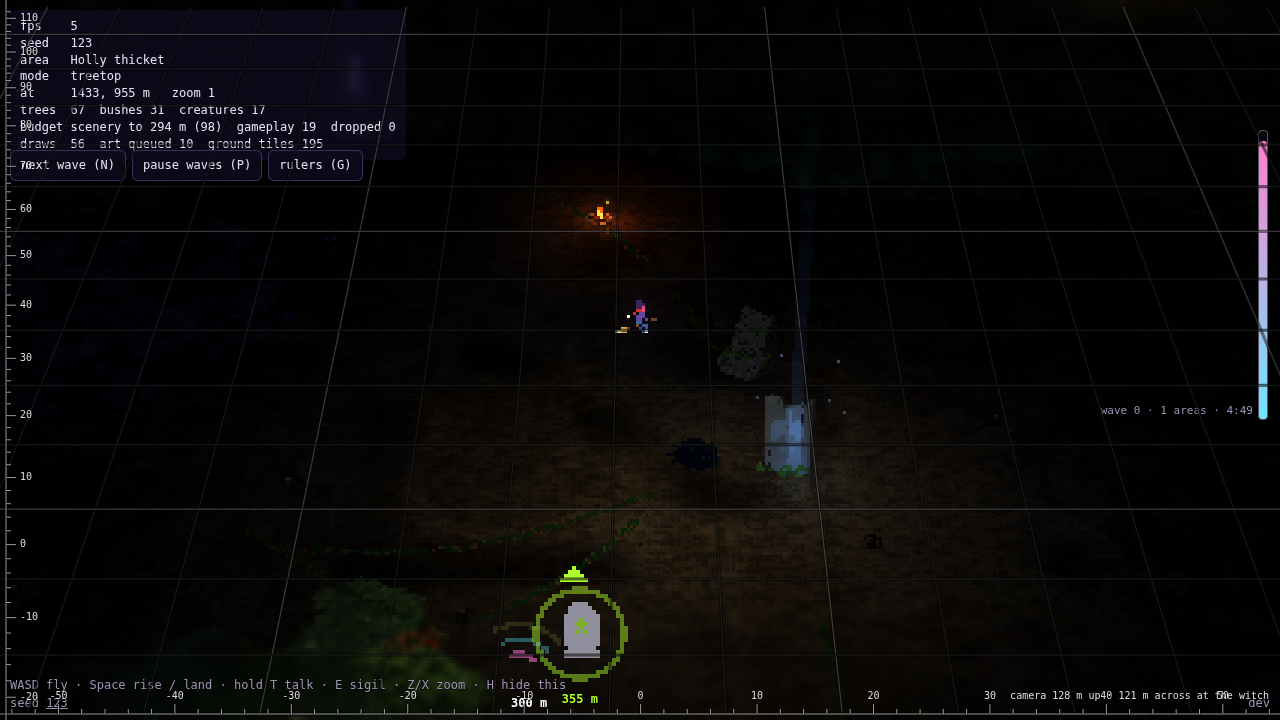
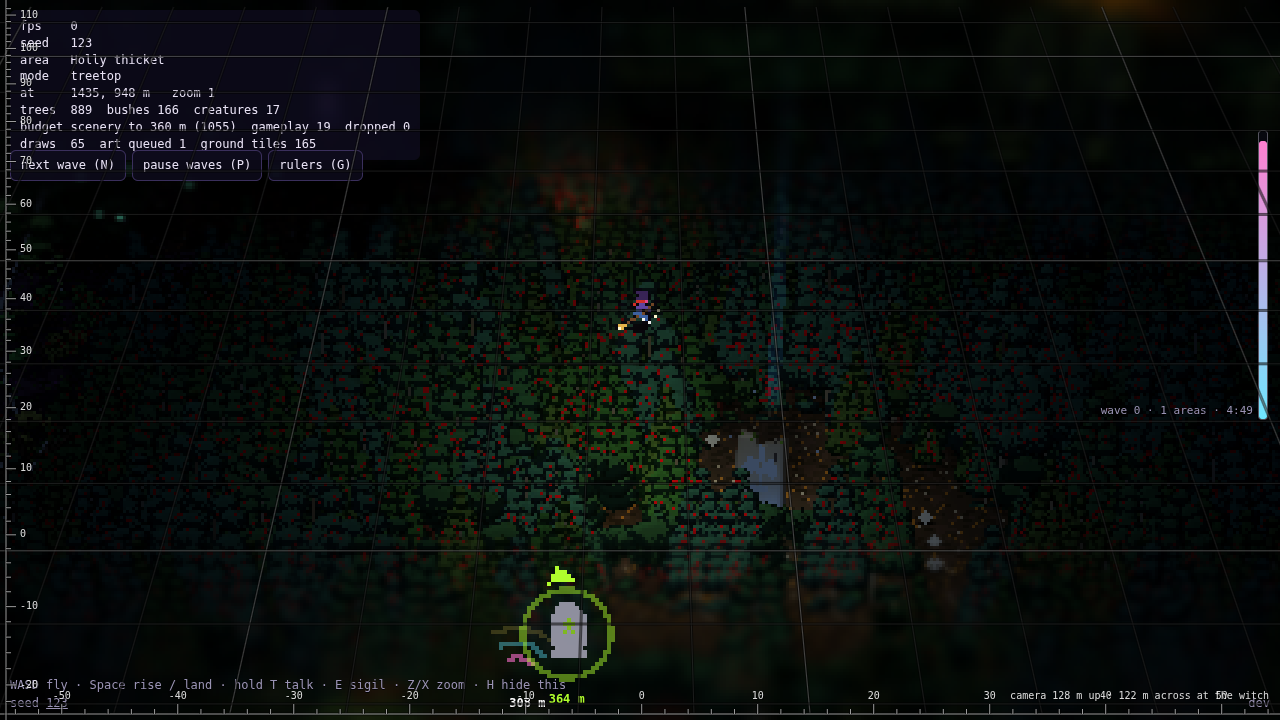
Tilt-shift per mode and the opening shot (Ed, v160 and v171)
- tiltShift.treetop {strength 6, band 0.28}, blended in by lift (smoothstep) in the post pass; the
  ground keeps strength 3, band 0.4. ?tilt=<strength>,<band> tries treetop values live.
- The opening shot: the camera starts close in on her seat (camera.intro distance 34, angle 22),
  framed on the seat as drawn (the view hands it to the rules as Game.introFocus; the art's
  camera anchor when the new treehouse lands); her first move or rise eases it out to the normal
  starting zoom over camera.intro.ease (1.3 s). Test.
- Changelog: v174 speakers, v175 ground blend, v177 the dancefloor engine; a new entry for these.

Claude-Session: https://claude.ai/code/session_01MR6jyHx6mcGYyfzATvhXK3

diff --git a/src/rules/camera.ts b/src/rules/camera.ts
@@ -23,6 +23,9 @@ export interface CameraState {
   lift: number;
   /** Drawn back with treetop speed: a share of the distance, eased. */
   pull?: number;
+  /** The opening shot (Ed, v171): 1 while she sits on the treehouse, close in on her seat
+   *  (camera.intro), running down to 0 over camera.intro.ease seconds once she leaves it. */
+  intro?: number;
 }
 
 export interface CameraPose {
@@ -41,7 +44,7 @@ export interface CameraPose {
 export function newCamera(t: Tuning, x: number, y: number, z: number): CameraState {
   const steps = Math.max(1, t.camera.zoomSteps), s = clamp(Math.round(t.camera.startZoom), 0, steps - 1);
   const zoom = steps > 1 ? s / (steps - 1) : 0;
-  return { zoomStep: s, zoom, tx: x, ty: y, tz: z, vx: 0, vy: 0, vz: 0, ax: 0, az: 0, lift: 0 };
+  return { zoomStep: s, zoom, tx: x, ty: y, tz: z, vx: 0, vy: 0, vz: 0, ax: 0, az: 0, lift: 0, intro: 1 };
 }
 
 /** One step of a critically damped spring toward `to`: no overshoot, no wobble. */
@@ -50,9 +53,12 @@ function spring(x: number, v: number, to: number, w: number, dt: number): [numbe
   return [to + (d + c * dt) * e, (v - w * c * dt) * e];
 }
 
-/** Follow the witch: `target` is where she is, `vel` how fast she flies, `lift` her height (0-1). */
-export function stepCamera(c: CameraState, zoomDelta: number, target: { x: number; y: number; z: number }, vel: { x: number; z: number }, lift: number, dt: number, t: Tuning): CameraState {
+/** Follow the witch: `target` is where she is, `vel` how fast she flies, `lift` her height (0-1).
+ *  While she's `seated`, it frames `focus` (her seat, as drawn) for the opening shot. */
+export function stepCamera(c: CameraState, zoomDelta: number, target: { x: number; y: number; z: number }, vel: { x: number; z: number }, lift: number, dt: number, t: Tuning, seated = false, focus?: { x: number; y: number; z: number } | null): CameraState {
   const cam = t.camera, steps = Math.max(1, cam.zoomSteps);
+  const intro = seated ? (c.intro ?? 0) : Math.max(0, (c.intro ?? 0) - dt / Math.max(0.05, cam.intro.ease));
+  if (seated && focus) target = focus;
   const zoomStep = clamp(c.zoomStep + Math.sign(zoomDelta), 0, steps - 1);
   const want = steps > 1 ? zoomStep / (steps - 1) : 0;
   // A small look-ahead in the direction of flight, capped, eased in and out slowly.
@@ -69,14 +75,17 @@ export function stepCamera(c: CameraState, zoomDelta: number, target: { x: numbe
   // Boosting in the treetops, it draws back a little (a few per cent), eased.
   const T = t.treetop, over = clamp((Math.hypot(vel.x, vel.z) - t.treetopSpeed) / Math.max(1, t.treetopSpeed * (T.boost - 1)), 0, 1);
   const pull = (c.pull ?? 0) + (T.cameraPull * over * smoothstep(l) - (c.pull ?? 0)) * (1 - Math.exp(-1.5 * dt));
-  return { zoomStep, zoom, tx, ty, tz, vx, vy, vz, ax: nax, az: naz, lift: clamp(l, 0, 1), pull };
+  return { zoomStep, zoom, tx, ty, tz, vx, vy, vz, ax: nax, az: naz, lift: clamp(l, 0, 1), pull, intro };
 }
 
 /** Where the camera is for the witch's lift (0 ground, 1 treetop) and the zoom. */
 export function cameraPose(c: CameraState, lift: number, t: Tuning): CameraPose {
   const g = t.camera.ground, tt = t.camera.treetop, m = smoothstep(lift);
-  const angle = lerp(lerp(g.angleIn, g.angleOut, c.zoom), lerp(tt.angleIn, tt.angleOut, c.zoom), m);
-  const distance = lerp(lerp(g.distanceIn, g.distanceOut, c.zoom), lerp(tt.distanceIn, tt.distanceOut, c.zoom), m) * (1 + (c.pull ?? 0));
+  let angle = lerp(lerp(g.angleIn, g.angleOut, c.zoom), lerp(tt.angleIn, tt.angleOut, c.zoom), m);
+  let distance = lerp(lerp(g.distanceIn, g.distanceOut, c.zoom), lerp(tt.distanceIn, tt.distanceOut, c.zoom), m) * (1 + (c.pull ?? 0));
+  // The opening shot: closer and lower, easing out to the normal view as she leaves her seat.
+  const k = smoothstep(c.intro ?? 0), I = t.camera.intro;
+  angle = lerp(angle, I.angle, k); distance = lerp(distance, I.distance, k);
   const a = (angle * Math.PI) / 180;
   return { angle, distance, x: c.tx, y: c.ty + Math.sin(a) * distance, z: c.tz + Math.cos(a) * distance, tx: c.tx, ty: c.ty, tz: c.tz };
 }

diff --git a/src/render/post.ts b/src/render/post.ts
@@ -10,7 +10,7 @@ import * as THREE from "three";
 export interface PostTuning {
   bloom: { on: boolean; strength: number; threshold: number };
   tone: { black: number; gamma: number; ambient: number };
-  tiltShift: { on: boolean; where: "before" | "after"; strength: number; band: number; centre: number };
+  tiltShift: { on: boolean; where: "before" | "after"; strength: number; band: number; centre: number; /** Over the treetops (Ed, v160: stronger there), blended in by lift. */ treetop: { strength: number; band: number } };
 }
 
 const VERT = "varying vec2 vUv; void main() { vUv = uv; gl_Position = vec4(position.xy, 0.0, 1.0); }";
@@ -101,6 +101,8 @@ export class Post {
   }
 
   /** Whether the canvas holds the full-resolution image (tilt-shift after the upscale). */
+  /** How far the witch is risen (0 ground, 1 treetops): the tilt-shift blends from the ground's to the treetops'. */
+  lift = 0;
   get fullResolution(): boolean { return this.tuning.tiltShift.on && this.tuning.tiltShift.where === "after"; }
 
   /** lowW x lowH: the scene; outW x outH: the canvas. */
@@ -164,7 +166,8 @@ export class Post {
     // The blur radius is given in low-res pixels; after the upscale it covers the same ground.
     const w = this.a.width, h = this.a.height, scale = this.fullResolution ? this.out.y / this.low.y : 1;
     const common = (u: Record<string, THREE.IUniform>) => {
-      u.uTexel.value.set(1 / w, 1 / h); u.uStrength.value = t.tiltShift.strength * scale; u.uBand.value = t.tiltShift.band; u.uCentre.value = 1 - t.tiltShift.centre;
+      const T = t.tiltShift, k = Math.max(0, Math.min(1, this.lift)), k2 = k * k * (3 - 2 * k);
+      u.uTexel.value.set(1 / w, 1 / h); u.uStrength.value = (T.strength + (T.treetop.strength - T.strength) * k2) * scale; u.uBand.value = T.band + (T.treetop.band - T.band) * k2; u.uCentre.value = 1 - T.centre;
     };
     this.pass("tilt", this.b, u => { common(u); u.uSrc.value = this.a.texture; u.uDir.value.set(1, 0); });
     this.pass("tilt", null, u => { common(u); u.uSrc.value = this.b.texture; u.uDir.value.set(0, 1); });

diff --git a/src/rules/rules.test.ts b/src/rules/rules.test.ts
@@ -378,8 +378,24 @@ describe("the witch", () => {
 });
 
 describe("the camera", () => {
+  it("opens close in on her seat, and eases out to the starting zoom once she leaves it (Ed, v171)", () => {
+    const I = TUNING.camera.intro, seat = { x: 10, y: 6, z: 20 };
+    let c = newCamera(TUNING, 0, 0, 0);
+    for (let i = 0; i < 120; i++) c = stepCamera(c, 0, { x: 0, y: 0, z: 0 }, { x: 0, z: 0 }, 0, 1 / 60, TUNING, true, seat);
+    const p0 = cameraPose(c, 0, TUNING);
+    expect(p0.distance).toBeCloseTo(I.distance, 1);
+    expect(p0.distance).toBeLessThan(TUNING.camera.ground.distanceIn); // closer than zoom step 0
+    expect(Math.hypot(p0.tx - seat.x, p0.ty - seat.y, p0.tz - seat.z)).toBeLessThan(0.5); // framed on the seat
+    const half = Math.round((I.ease / 2) * 60);
+    for (let i = 0; i < half; i++) c = stepCamera(c, 0, { x: 0, y: 0, z: 0 }, { x: 0, z: 0 }, 0, 1 / 60, TUNING);
+    const mid = cameraPose(c, 0, TUNING).distance;
+    expect(mid).toBeGreaterThan(I.distance + 5);
+    for (let i = 0; i < 60 * I.ease; i++) c = stepCamera(c, 0, { x: 0, y: 0, z: 0 }, { x: 0, z: 0 }, 0, 1 / 60, TUNING);
+    expect(c.intro).toBe(0);
+    expect(cameraPose(c, 0, TUNING).distance).toBeGreaterThan(mid);
+  });
   it("uses each mode's angle and distance, and zoom moves between in and out", () => {
-    let c = newCamera(withTuning({ camera: { ...TUNING.camera, startZoom: 0 } }), 0, 0, 0);
+    let c = { ...newCamera(withTuning({ camera: { ...TUNING.camera, startZoom: 0 } }), 0, 0, 0), intro: 0 }; // past the opening shot
     const g = TUNING.camera.ground, t = TUNING.camera.treetop;
     expect(cameraPose(c, 0, TUNING).angle).toBeCloseTo(g.angleIn);
     expect(cameraPose(c, 1, TUNING).angle).toBeCloseTo(t.angleIn);

diff --git a/src/rules/tuning.ts b/src/rules/tuning.ts
@@ -53,7 +53,7 @@ export interface Tuning {
   descendTime: number;
   groundHeight: number;
   treetopHeight: number;
-  camera: { fov: number; ground: CameraModeTuning; treetop: CameraModeTuning; zoomSteps: number; startZoom: number; follow: number; lookAhead: number; lookAheadMax: number; lookAheadEase: number; zoomEase: number; liftEase: number };
+  camera: { fov: number; ground: CameraModeTuning; treetop: CameraModeTuning; zoomSteps: number; startZoom: number; follow: number; lookAhead: number; lookAheadMax: number; lookAheadEase: number; zoomEase: number; liftEase: number; /** The opening shot: distance (metres) and angle (degrees) close in on her seat, and how many seconds it takes to ease out. */ intro: { distance: number; angle: number; ease: number } };
   pixelSize: number;
   glowReach: number;
   glowFalloff: number;
@@ -119,7 +119,7 @@ export interface Tuning {
   bond: { rim: boolean; sparks: boolean; thread: boolean; sparkEvery: number; /** The thread's upward bow: metres per metre of length, up to threadArcMax. */ threadArc: number; threadArcMax: number };
   tone: { black: number; gamma: number; ambient: number; moon: number };
   bloom: { on: boolean; strength: number; threshold: number };
-  tiltShift: { on: boolean; where: "before" | "after"; strength: number; band: number; centre: number };
+  tiltShift: { on: boolean; where: "before" | "after"; strength: number; band: number; centre: number; /** Over the treetops (Ed, v160: stronger there), blended in by lift. */ treetop: { strength: number; band: number } };
   creaturesNear: number;
   creaturesFar: number;
   creatureCurve: number;

diff --git a/src/main.ts b/src/main.ts
@@ -22,7 +22,7 @@ if (seed === null) {
 // Variants as switches in the link: ?tilt=before|after|off, ?bloom=off, ?shadows=off,
 // ?canopy=off (the canopy shadow layer), ?mist=off.
 const tuning = {
-  ...TUNING, bloom: { ...TUNING.bloom }, tiltShift: { ...TUNING.tiltShift },
+  ...TUNING, bloom: { ...TUNING.bloom }, tiltShift: { ...TUNING.tiltShift, treetop: { ...TUNING.tiltShift.treetop } },
   shadows: { ...TUNING.shadows }, canopyShadow: { ...TUNING.canopyShadow }, mist: { ...TUNING.mist },
   party: { ...TUNING.party },
 };
@@ -32,6 +32,8 @@ if (params.get("mist") === "off") tuning.mist.on = false;
 const tilt = params.get("tilt");
 if (tilt === "off") tuning.tiltShift.on = false;
 else if (tilt === "before" || tilt === "after") { tuning.tiltShift.on = true; tuning.tiltShift.where = tilt; }
+// ?tilt=<strength>,<band>: the treetops' tilt-shift, to try values live (e.g. ?tilt=6,0.28).
+else if (tilt && /^[\d.]+(,[\d.]+)?$/.test(tilt)) { const [st, bd] = tilt.split(",").map(Number); tuning.tiltShift.on = true; tuning.tiltShift.treetop.strength = st; if (bd > 0) tuning.tiltShift.treetop.band = bd; }
 if (params.get("bloom") === "off") tuning.bloom.on = false;
 if (params.get("moonbeams") === "on") tuning.moonbeams = 1;
 // ?rune=beam|column|both: how an awake rune stone shows above it.

diff --git a/src/rules/game.ts b/src/rules/game.ts
@@ -27,6 +27,8 @@ export interface Game {
   speakers: SpeakerState[];
   /** The dancefloor's tile lights (rules/dancefloor.ts). */
   floor: FloorState;
+  /** Where the opening shot looks: her seat on the treehouse as drawn (the view sets it; the art knows where it is). */
+  introFocus?: { x: number; y: number; z: number };
 }
 
 export interface Controls extends Intent, Partial<LeashControls> {
@@ -57,7 +59,7 @@ export function stepGame(g: Game, c: Controls, realDt: number): void {
   if (dt === 0) return;
   const wave = g.party.wave, seated = g.witch.seated;
   g.witch = stepWitch(g.witch, c, dt, g.tuning, g.map.bounds);
-  g.camera = stepCamera(g.camera, c.zoom, { x: g.witch.x, y: witchHeight(g.witch, g.tuning), z: g.witch.z }, { x: g.witch.vx, z: g.witch.vz }, g.witch.lift, dt, g.tuning);
+  g.camera = stepCamera(g.camera, c.zoom, { x: g.witch.x, y: witchHeight(g.witch, g.tuning), z: g.witch.z }, { x: g.witch.vx, z: g.witch.vz }, g.witch.lift, dt, g.tuning, !!g.witch.seated, g.introFocus);
   if (c.pauseWaves) g.party.paused = !g.party.paused;
   if (c.nextWave) { spreadWave(g.party, g.map, g.clock.time); g.party.nextAt = g.clock.time + g.tuning.party.interval; }
   stepParty(g.party, g.map, g.clock.time, dt);

diff --git a/src/render/view.ts b/src/render/view.ts
@@ -863,6 +863,7 @@ export class View {
     let wx = w.x, wz = w.z, wyy = wy;
     if (this.seatK > 0) {
       const seat = onTreehouse(T.seat.x, T.seat.y), k = this.seatK * this.seatK * (3 - 2 * this.seatK);
+      g.introFocus = { x: seat.x, y: seat.y + 1, z: seat.z }; // the opening shot frames her seat (the art's camera anchor when it has one)
       const fwd = this.camera.getWorldDirection(this.v3);
       wx += (seat.x - fwd.x * 0.6 - wx) * k; wyy += (seat.y - fwd.y * 0.6 - wyy) * k; wz += (seat.z - fwd.z * 0.6 - wz) * k;
       if (w.seated) wf = F.sit.towards[Math.floor(time * F.sit.fps) % F.sit.towards.length];
@@ -910,6 +911,7 @@ export class View {
     if (this.debugCull) this.drawGhosts(time);
     if (!draw) return;
     this.renderer.info.reset();
+    this.post.lift = this.game.witch.lift;
     this.post.render(this.scene, this.camera);
     // Anything set but not drawn (three.js capping a batch's instances) is a bug: count and log it.
     let dropped = 0;
